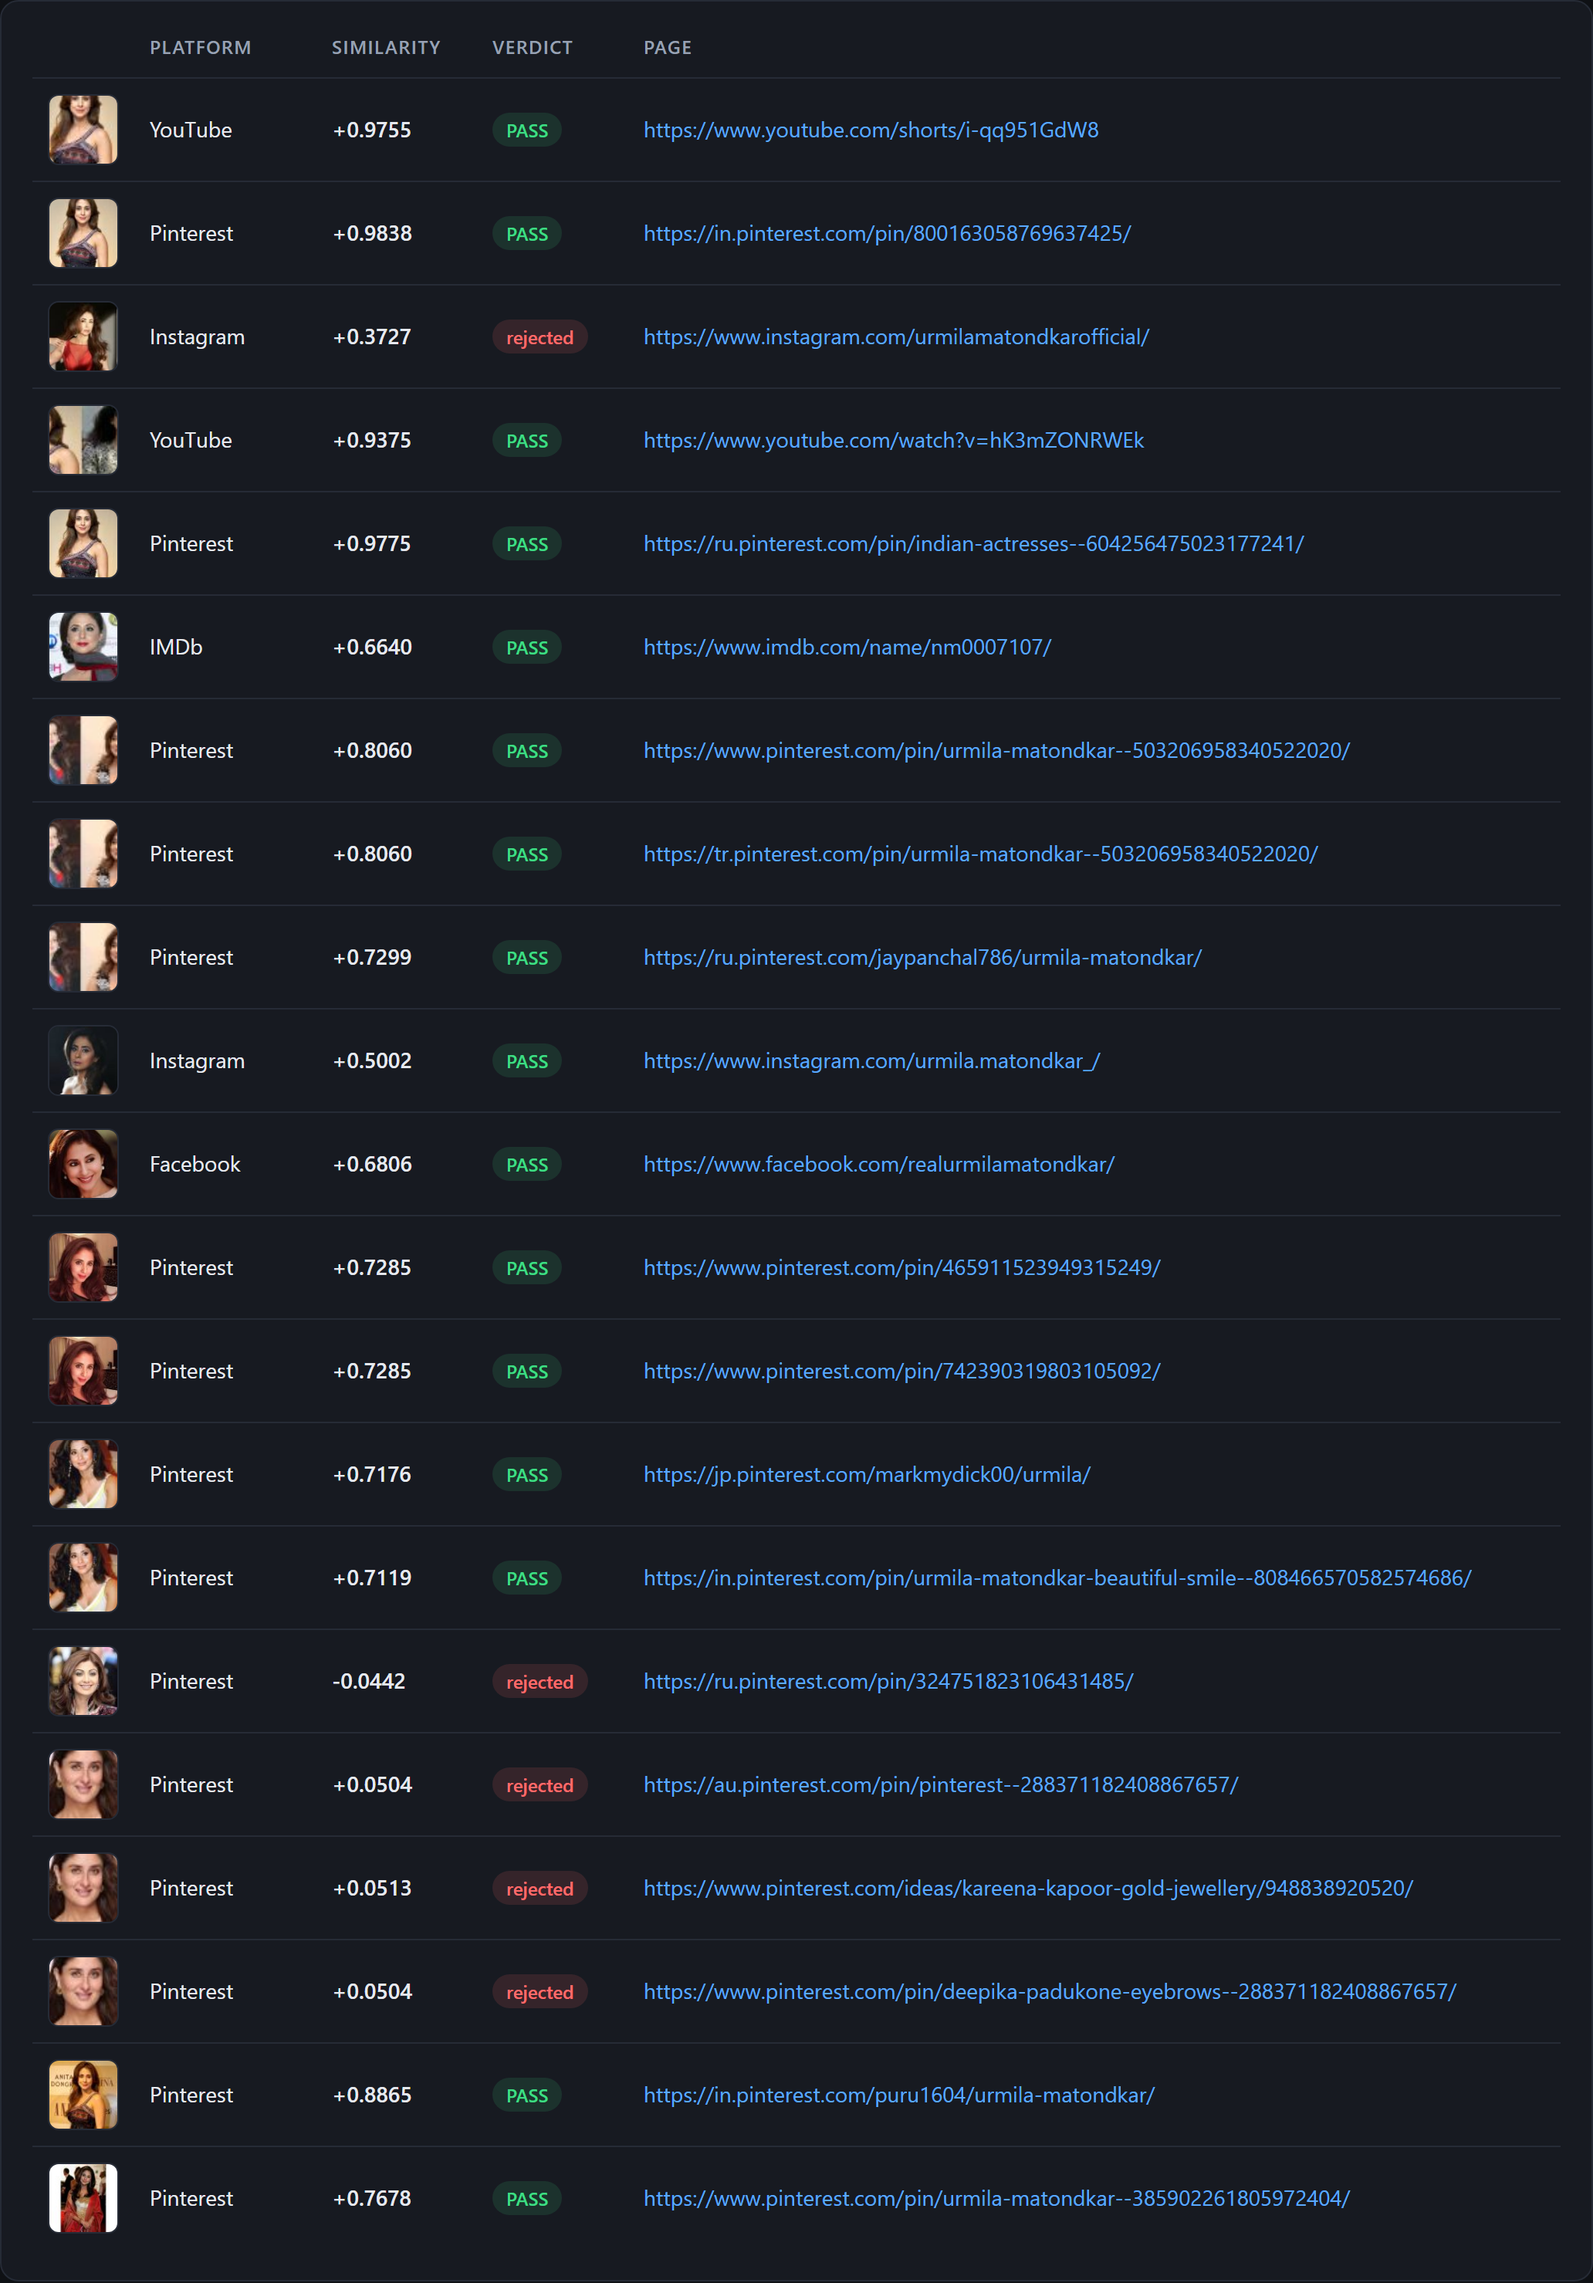
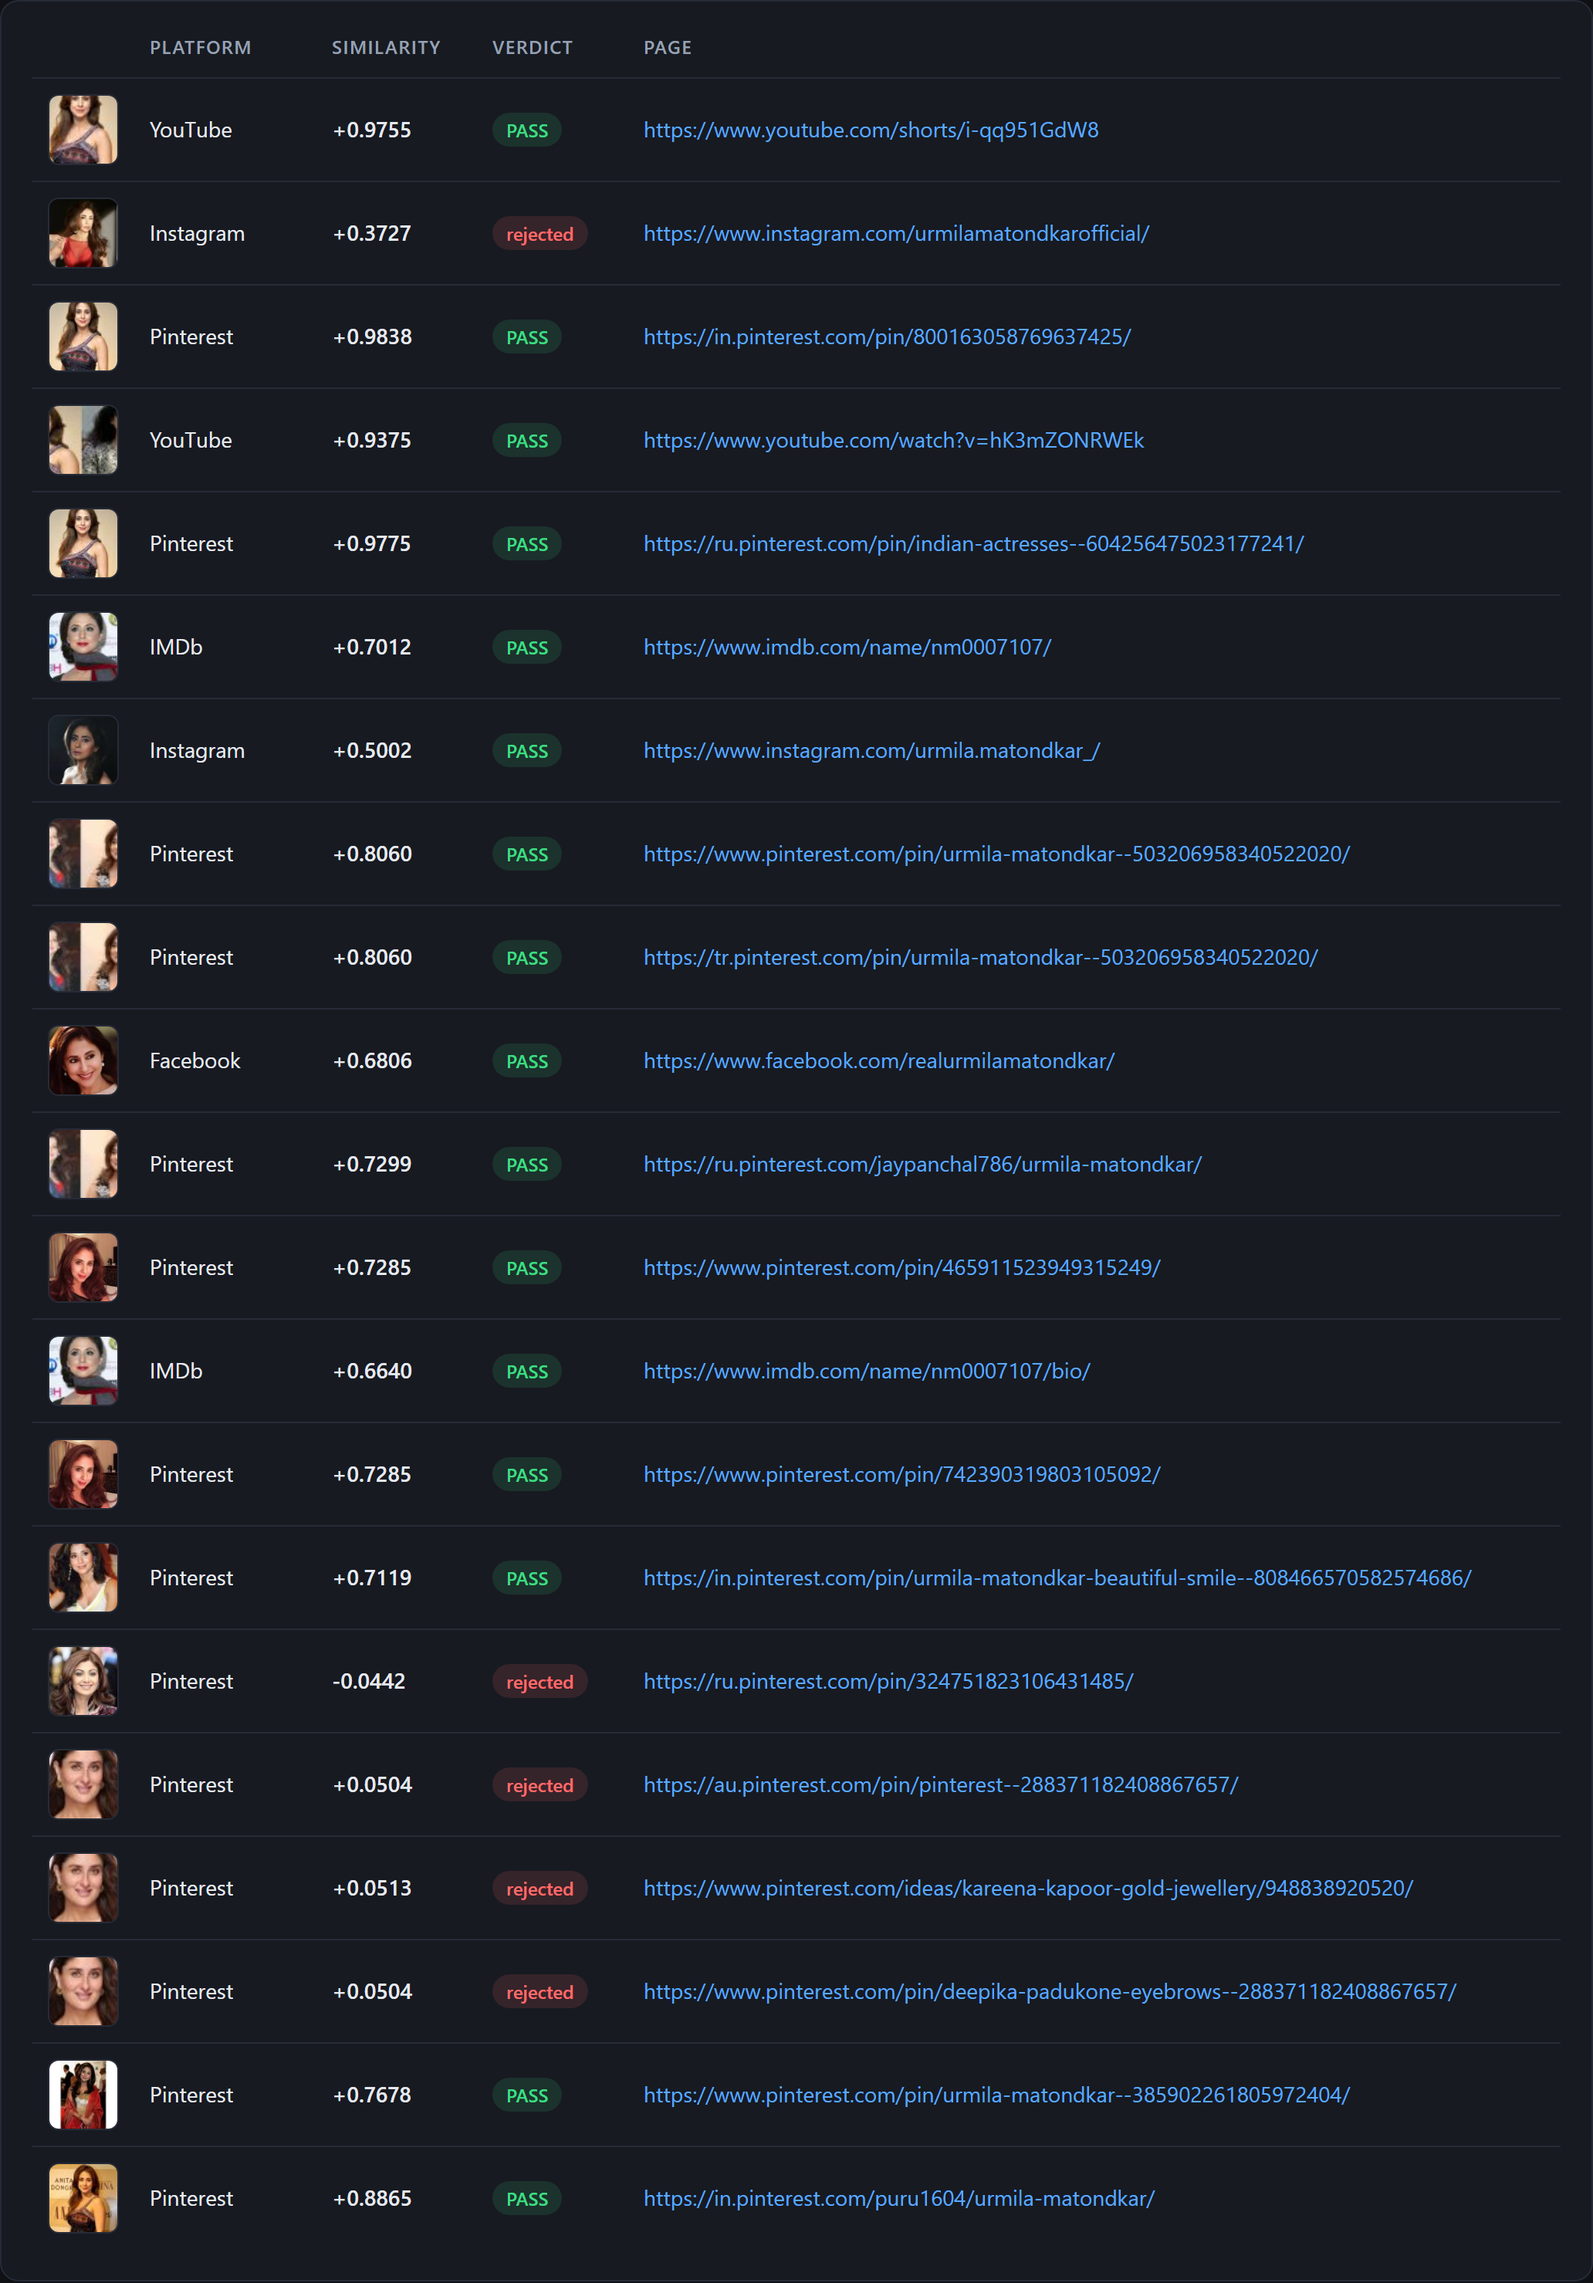
Match the README's numbers to the run anyone can verify
The headline figures came from an earlier local run (161 pages, 21
social) while the anchored proof linked two sections below came from the
Sepolia run (158 pages, 22 social). Anyone comparing the two would find
the README citing results that do not correspond to the transaction it
points at.

Both the summary table and the sample output now come from the Sepolia
run, and the text says outright that a live search returns different
results every time -- which is the honest characterisation and is
precisely what distinguishes a search from a lookup table.

The candidate screenshots are regenerated from that same run. One row is
omitted from the illustration because the Pinterest board it points to
has a crude username; the tool still produces it and the report file
still contains it, this only keeps it out of a README image.

diff --git a/README.md b/README.md
@@ -22,11 +22,13 @@ Built for **HH Goa 2026 Shortlisting Task 3**.
 
 ## Results from a real run
 
-One command, one photo, no hardcoded anything:
+One command, one photo, no hardcoded anything. These are the numbers from the run
+that is anchored on Sepolia below — **a live search returns different results every
+time**, which is what makes it a search rather than a lookup table:
 
 | | |
 |---|---|
-| Pages returned by the live search | **161** (21 on social platforms) |
+| Pages returned by the live search | **158** (22 on social platforms) |
 | Independently verified as the same person | **17** |
 | Platforms matched | Instagram, Facebook, IMDb, YouTube, Pinterest |
 | Best match | **0.9838** cosine similarity |
@@ -136,25 +138,31 @@ Add `--open-report` to have it open in your browser automatically.
 ```
 Step 2/5 · Web & social media search
   OK  published 2 query image(s) so the engine can fetch them
-      face_crop     https://files.catbox.moe/m24rp0.jpg
-      full_image    https://files.catbox.moe/4qihcr.jpg
-      face_crop     returned 35 pages
-      full_image    returned 58 pages
-  OK  65 unique pages found, 19 on social platforms
+      face_crop     returned 87 pages
+      full_image    returned 71 pages
+  OK  158 unique pages found, 22 on social platforms
+      engine identified the face as: Urmila Matondkar
 
 Step 3/5 · Independent face verification
       re-checking each hit with our own embedder — the engine's ranking is not trusted
-      PASS sim=+0.8199  Pinterest   https://www.pinterest.com/pin/1101271533748...
-      PASS sim=+0.9774  YouTube     https://www.youtube.com/@varioustips8692
-      PASS sim=+0.9865  YouTube     https://www.youtube.com/shorts/B38jsTSNXYI
-        ·    no usable face   YouTube     https://www.youtube.com/shorts/reR05rPo2Ho
-      PASS sim=+0.9947  YouTube     https://www.youtube.com/shorts/t7K38auPbPI
-  OK  11 post(s) independently verified as the same person
+      fail sim=+0.3727  Instagram   https://www.instagram.com/urmilamatondkarofficial/
+      PASS sim=+0.9838  Pinterest   https://in.pinterest.com/pin/800163058769637425/
+      PASS sim=+0.5002  Instagram   https://www.instagram.com/urmila.matondkar_/
+      PASS sim=+0.6806  Facebook    https://www.facebook.com/realurmilamatondkar/
+      PASS sim=+0.6640  IMDb        https://www.imdb.com/name/nm0007107/
+      fail sim=+0.0504  Pinterest   https://www.pinterest.com/ideas/kareena-kapoor-...
+      fail sim=+0.0504  Pinterest   https://www.pinterest.com/pin/deepika-padukone-...
+  OK  17 post(s) independently verified as the same person
 
 Step 5/5 · Blockchain anchor
-  OK  anchored in block 3 (gas 213,454)
-      tx 0x0674e8d41aeddb0a01263ab8d50e371efe7902b745b08e45f196a39bb419f2ae
+  OK  anchored in block 11644880 (gas 230,650)
+      https://sepolia.etherscan.io/tx/0xd2c39c0f7586b05b4cb61bff858b23b9fd36f0f013c394a0fd25251ef31ad550
 ```
+
+Note the first line of the verification step: the account whose URL literally says
+`urmilamatondkarofficial` is **rejected**, because its profile picture does not clear
+the threshold. A different account passes at 0.5002. The pipeline weighs faces, not
+labels.
 
 ---
 
